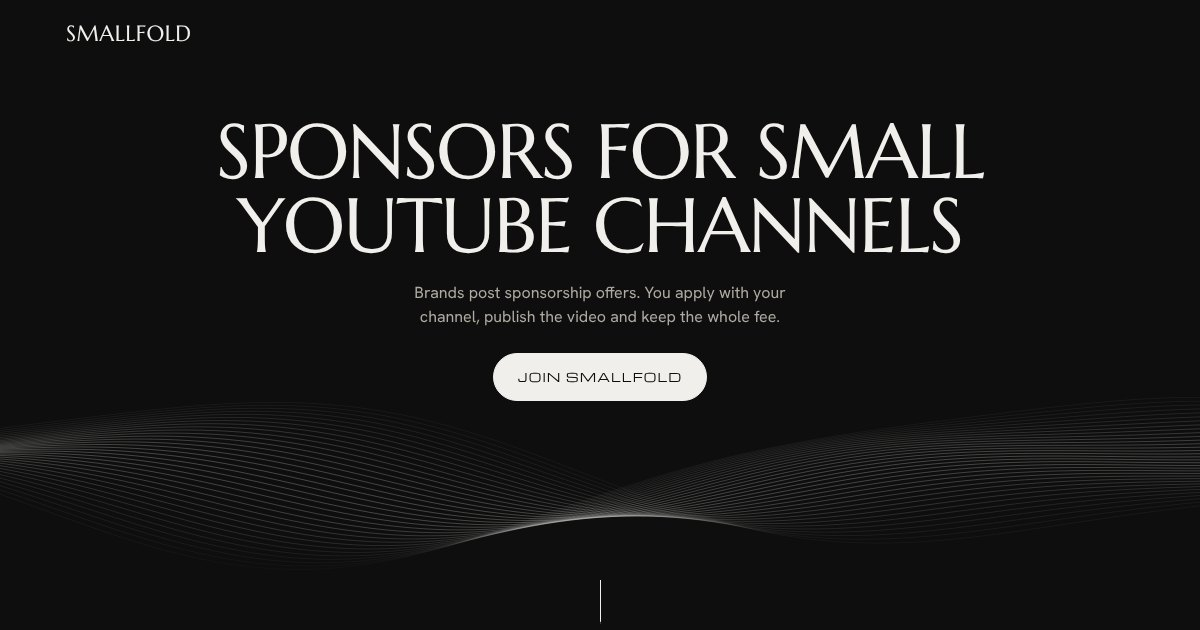
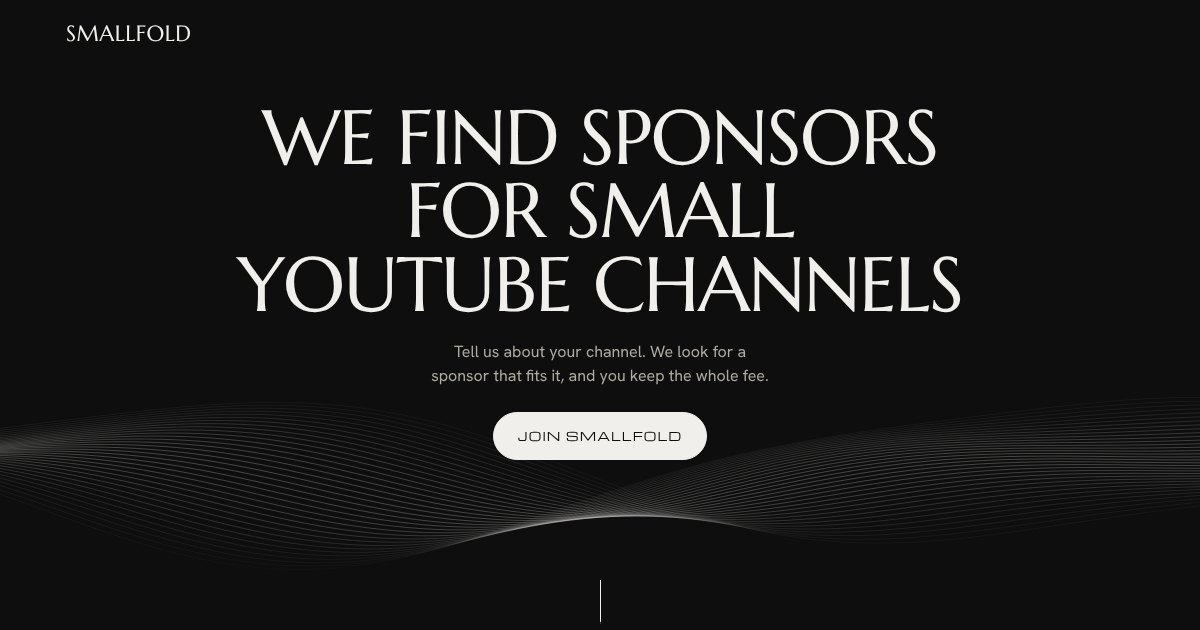
Describe Smallfold as a curated service that finds the sponsor
Smallfold looks for a sponsor for each creator; creators no longer apply
to a board of offers. The headline, steps, questions, brand section and
examples follow that model, and the list of open sponsorships is gone.

Claude-Session: https://claude.ai/code/session_01C9y4eMVXke5ZdWtuD7G568

Changed region(s): [[0.185, 0.1508, 0.8325, 0.5127], [0.37, 0.5429, 0.6475, 0.754]]

diff --git a/index.html b/index.html
@@ -3,11 +3,11 @@
 <head>
 <meta charset="utf-8">
 <meta name="viewport" content="width=device-width, initial-scale=1, viewport-fit=cover">
-<title>Smallfold: sponsors for small YouTube channels</title>
-<meta name="description" content="Smallfold is a sponsorship marketplace for YouTube channels with 1,000 to 50,000 subscribers. Brands post what they want to sponsor, creators apply and get paid.">
+<title>Smallfold: we find sponsors for small YouTube channels</title>
+<meta name="description" content="Smallfold finds sponsors for YouTube channels with 1,000 to 50,000 subscribers. Tell us about your channel, we look for a sponsor that fits it, and you keep the whole fee.">
 <meta property="og:type" content="website">
-<meta property="og:title" content="Smallfold: sponsors for small YouTube channels">
-<meta property="og:description" content="Brands post a sponsorship. Channels with 1,000 to 50,000 subscribers apply, publish the video and get paid.">
+<meta property="og:title" content="Smallfold: we find sponsors for small YouTube channels">
+<meta property="og:description" content="Tell us about your channel. We look for a sponsor that fits it, and you keep the whole fee.">
 <meta property="og:image" content="share.jpg">
 <meta name="twitter:card" content="summary_large_image">
 <link rel="icon" href="favicon.svg" type="image/svg+xml">
@@ -118,12 +118,11 @@ a:hover > .arrow, button:hover > .arrow { transform: translateX(3px); }
 .scroll i { position: relative; width: 1px; height: 44px; background: var(--line); overflow: hidden; }
 .scroll i::after { content: ""; position: absolute; inset: 0; background: var(--fg); transform: translateY(-101%); animation: drip 2.6s var(--ease) infinite; }
 @keyframes drip { 0% { transform: translateY(-101%); } 55% { transform: translateY(0); } 100% { transform: translateY(101%); } }
-.hero__facts { display: flex; flex-wrap: wrap; justify-content: space-between; gap: 6px 32px; margin-bottom: 18px; color: var(--muted); }
-.hero__stage { position: relative; padding-top: clamp(48px, 7vw, 104px); scroll-margin-top: var(--nav); }
 @media (max-width: 700px) {
   .hero__center { padding-bottom: clamp(110px, 21vh, 190px); }
   .d-hero { font-size: clamp(36px, 11.3vw, 64px); }
 }
+@media (max-height: 780px) and (min-width: 701px) { .hero__center { padding-bottom: clamp(96px, 16vh, 124px); } }
 @media (max-height: 620px) { .hero__center { padding-bottom: 96px; gap: 16px; } }
 .window { border: 1px solid var(--line-on-cream); border-bottom: 0; border-radius: 14px 14px 0 0; background: var(--cream); color: var(--ink); overflow: hidden; }
 .window__bar { display: flex; align-items: center; gap: 14px; padding: 14px 20px; border-bottom: 1px solid var(--line-on-cream); }
@@ -275,33 +274,16 @@ fieldset.field { border: 0; margin: 0; padding: 0; min-width: 0; }
     <div class="hero__screen">
       <canvas class="hero__flow" aria-hidden="true"></canvas>
       <div class="wrap hero__center">
-        <h1 class="display d-hero" id="hero-h">Sponsors for small YouTube channels</h1>
+        <h1 class="display d-hero" id="hero-h">We find sponsors for small YouTube channels</h1>
         <script>(function(){var h=document.getElementById('hero-h'),t=h.textContent.trim();h.setAttribute('aria-label',t);h.innerHTML=t.split(/\s+/).map(function(w,i){return '<span class="w" aria-hidden="true"><span style="--i:'+i+'">'+w+'</span></span>'}).join(' ')})()</script>
-        <p class="hero__lead muted" data-in style="--i:7">Brands post sponsorship offers. You apply with your channel, publish the video and keep the whole fee.</p>
-        <div class="hero__actions" data-in style="--i:9">
+        <p class="hero__lead muted" data-in style="--i:9">Tell us about your channel. We look for a sponsor that fits it, and you keep the whole fee.</p>
+        <div class="hero__actions" data-in style="--i:11">
           <a class="btn" href="#join">Join Smallfold</a>
         </div>
       </div>
-      <div class="hero__foot" data-in style="--i:12">
-        <a class="scroll" href="#offers" aria-label="Scroll to the example sponsorships"><i aria-hidden="true"></i></a>
+      <div class="hero__foot" data-in style="--i:14">
+        <a class="scroll" href="#creators" aria-label="Scroll to the next section"><i aria-hidden="true"></i></a>
       </div>
-    </div>
-    <div class="wrap hero__stage" id="offers">
-        <p class="hero__facts label"><span>For channels with 1,000 to 50,000 subscribers</span><span>10% per deal, paid by the brand</span></p>
-        <div class="window" role="img" aria-label="An example of the list a creator sees in Smallfold: four open sponsorships, each with what the brand wants in the video, the publish-by date and the fee">
-          <div class="window__bar" aria-hidden="true"><span class="window__dots"><i></i><i></i><i></i></span><span class="label">Example sponsorships</span></div>
-          <div class="table-scroll" aria-hidden="true">
-            <table class="rows">
-              <thead><tr><th>Sponsorship</th><th class="hide-s">In the video</th><th class="hide-s">Publish by</th><th class="num">Fee</th><th>Status</th></tr></thead>
-              <tbody>
-                <tr><td>Oat drink launch<span class="sub">60-second mention</span></td><td class="hide-s">60-second mention, link in the description</td><td class="hide-s">14 March</td><td class="num">$180</td><td><span class="chip">Open</span></td></tr>
-                <tr><td>Gaming headset<span class="sub">One review video</span></td><td class="hide-s">One video that reviews the headset</td><td class="hide-s">21 March</td><td class="num">$320</td><td><span class="chip">Open</span></td></tr>
-                <tr><td>Study planner app<span class="sub">60-second mention</span></td><td class="hide-s">60-second mention, link in the description</td><td class="hide-s">28 March</td><td class="num">$240</td><td><span class="chip">Open</span></td></tr>
-                <tr><td>Travel backpack<span class="sub">Shown in one video</span></td><td class="hide-s">Shown and named in one travel video</td><td class="hide-s">2 April</td><td class="num">$150</td><td><span class="chip">Open</span></td></tr>
-              </tbody>
-            </table>
-          </div>
-        </div>
     </div>
   </section>
 
@@ -311,28 +293,28 @@ fieldset.field { border: 0; margin: 0; padding: 0; min-width: 0; }
       <div class="chapter">
         <p class="label label--muted">For creators</p>
         <div class="chapter__body">
-          <h2 class="display d-lg" id="creators-h">A sponsor for your next video</h2>
-          <p class="lead">You do not need a manager or an agency. Every sponsorship on Smallfold is an offer from a brand. It says what the brand wants in your video and what it pays.</p>
+          <h2 class="display d-lg" id="creators-h">A sponsor chosen for your channel</h2>
+          <p class="lead">You do not need a manager or an agency, and you do not search through a list. You tell us about your channel, and we look for a sponsor that suits your videos and the people who watch them.</p>
         </div>
       </div>
       <div class="split">
         <ul class="points">
-          <li><h3>You read the whole offer first</h3><p class="muted">What the brand wants in the video, the fee and the date are in the offer before you apply.</p></li>
-          <li><h3>You keep the whole fee</h3><p class="muted">The brand pays Smallfold's 10% commission on top. Nothing is taken from your fee.</p></li>
-          <li><h3>You choose what you promote</h3><p class="muted">You pick the offers you apply to. No offer is assigned to you.</p></li>
+          <li><h3>We start with your channel</h3><p class="muted">We look at what you make and who watches it before we suggest a sponsor.</p></li>
+          <li><h3>You keep the whole fee</h3><p class="muted">The sponsor pays Smallfold's 10% commission on top. Nothing is taken from your fee.</p></li>
+          <li><h3>You decide</h3><p class="muted">You can say no to any sponsor we suggest. Nothing is agreed without you.</p></li>
         </ul>
-        <div class="window window--full offer" role="img" aria-label="An example offer: a study planner app wants a 60-second mention in one video and a link in the description, published by 28 March. The fee is 240 dollars. The creator receives the full 240 dollars and the brand pays 264 dollars, the fee plus 10 percent.">
-          <div class="window__bar" aria-hidden="true"><span class="window__dots"><i></i><i></i><i></i></span><span class="label">Example offer</span></div>
+        <div class="window window--full offer" role="img" aria-label="An example match: for a study skills channel with 9,000 subscribers, Smallfold suggests a study planner app as the sponsor, because the viewers are students who plan their revision. The sponsor wants a 60-second mention in one video and a link in the description. The fee is 240 dollars. The creator receives the full 240 dollars and the sponsor pays 264 dollars, the fee plus 10 percent.">
+          <div class="window__bar" aria-hidden="true"><span class="window__dots"><i></i><i></i><i></i></span><span class="label">Example match</span></div>
           <div class="offer__body" aria-hidden="true">
             <p class="offer__title">Study planner app</p>
             <dl class="offer__rows">
+              <div><dt>Your channel</dt><dd>Study skills, 9,000 subscribers</dd></div>
+              <div><dt>Why it fits</dt><dd>Your viewers are students who plan their revision</dd></div>
               <div><dt>In the video</dt><dd>A 60-second mention in one video, and a link in the description</dd></div>
-              <div><dt>Publish by</dt><dd>28 March</dd></div>
               <div><dt>Fee</dt><dd>$240</dd></div>
               <div class="is-strong"><dt>You receive</dt><dd>$240, the full fee</dd></div>
-              <div><dt>The brand pays</dt><dd>$264, the fee plus 10%</dd></div>
+              <div><dt>The sponsor pays</dt><dd>$264, the fee plus 10%</dd></div>
             </dl>
-            <span class="chip chip--on">Apply</span>
           </div>
         </div>
       </div>
@@ -345,14 +327,14 @@ fieldset.field { border: 0; margin: 0; padding: 0; min-width: 0; }
       <div class="chapter">
         <p class="label label--muted">How it works</p>
         <div class="chapter__body">
-          <h2 class="display d-lg" id="steps-h">A sponsorship in four steps</h2>
+          <h2 class="display d-lg" id="steps-h">How we find your sponsor</h2>
         </div>
       </div>
       <ol class="steps">
-        <li><h3>Join with your channel</h3><p class="muted">Sign up as a creator and add your YouTube channel.</p></li>
-        <li><h3>Apply to a sponsorship</h3><p class="muted">Read the offers from brands and apply to the ones that suit what you make.</p></li>
-        <li><h3>Confirm and publish</h3><p class="muted">When the brand approves you, confirm the fee and the date, then publish the video.</p></li>
-        <li><h3>Get paid</h3><p class="muted">The brand pays your fee through Smallfold once the video is published.</p></li>
+        <li><h3>Tell us about your channel</h3><p class="muted">Join as a creator and send us the link to your YouTube channel.</p></li>
+        <li><h3>We look for a sponsor</h3><p class="muted">We look at your videos and your audience, and find a sponsor that suits them.</p></li>
+        <li><h3>You say yes or no</h3><p class="muted">We tell you who the sponsor is, what they want in the video and what they pay. You decide.</p></li>
+        <li><h3>Publish and get paid</h3><p class="muted">You publish the video, and the sponsor pays your fee through Smallfold.</p></li>
       </ol>
     </div>
   </section>
@@ -367,10 +349,11 @@ fieldset.field { border: 0; margin: 0; padding: 0; min-width: 0; }
         </div>
       </div>
       <div class="faq" style="margin-top: clamp(40px, 5vw, 72px)">
-        <div class="faq__item"><h3>What does Smallfold cost?</h3><p>Smallfold takes a 10% commission on each deal, and the brand pays it. As a creator you keep the whole fee in the offer. No deal, no commission.</p></div>
+        <div class="faq__item"><h3>Do I look for the sponsor myself?</h3><p>No. You tell us about your channel and we look for a sponsor that suits it. You do not apply to a list of offers.</p></div>
+        <div class="faq__item"><h3>What does Smallfold cost?</h3><p>Nothing for creators. Smallfold takes a 10% commission on each deal, and the sponsor pays it. You keep the whole fee. No deal, no commission.</p></div>
         <div class="faq__item"><h3>Is my channel big enough?</h3><p>Yes, if it has between 1,000 and 50,000 subscribers. A channel with fewer than 1,000 cannot join yet: come back when you reach 1,000.</p></div>
-        <div class="faq__item"><h3>How do I get paid?</h3><p>Through Smallfold. The brand pays your fee there once your video is published.</p></div>
-        <div class="faq__item"><h3>Can I say no to a sponsorship?</h3><p>Yes. You choose which offers to apply to, and you can read each one in full first. Nothing is assigned to you.</p></div>
+        <div class="faq__item"><h3>Can I say no to a sponsor?</h3><p>Yes. We suggest a sponsor and you decide. Nothing is agreed without you.</p></div>
+        <div class="faq__item"><h3>How do I get paid?</h3><p>Through Smallfold. The sponsor pays your fee there once your video is published.</p></div>
       </div>
     </div>
   </section>
@@ -381,7 +364,7 @@ fieldset.field { border: 0; margin: 0; padding: 0; min-width: 0; }
       <div class="chapter__body">
         <p class="label label--muted">Join</p>
         <h2 class="display d-lg" id="join-h">Join as a creator or a brand</h2>
-        <p class="lead muted">Tell us which side you are on and where to reach you. We reply by email.</p>
+        <p class="lead muted">Tell us whether you are a creator or a brand, and where to reach you. We reply by email.</p>
       </div>
       <form class="form" id="join-form" novalidate>
         <fieldset class="field field--full">
@@ -415,27 +398,27 @@ fieldset.field { border: 0; margin: 0; padding: 0; min-width: 0; }
       <div class="chapter">
         <p class="label label--muted">For brands</p>
         <div class="chapter__body">
-          <h2 class="display d-lg" id="brands-h">Sponsor many small channels with one brief</h2>
+          <h2 class="display d-lg" id="brands-h">Small channels chosen for your brand</h2>
           <p><a class="link" href="#join">Join as a brand <svg class="arrow" viewBox="0 0 12 12" aria-hidden="true"><path d="M1 6h9M6.5 2.5 10 6l-3.5 3.5" fill="none" stroke="currentColor" stroke-width="1.3"/></svg></a></p>
         </div>
       </div>
       <div class="split">
         <ul class="points">
-          <li><h3>Post a sponsorship brief</h3><p class="muted">Say what you sell, what you want in the video and what you pay.</p></li>
-          <li><h3>Compare the channels that apply</h3><p class="muted">Each application shows the channel's topic and subscriber count.</p></li>
+          <li><h3>Tell us what you want to promote</h3><p class="muted">Say what you sell, who should see it and what you pay.</p></li>
+          <li><h3>We suggest channels that fit</h3><p class="muted">We choose small YouTube channels whose viewers suit your product. You approve each one.</p></li>
           <li><h3>Pay per finished deal</h3><p class="muted">You pay each creator's fee through Smallfold, plus a 10% commission on each deal.</p></li>
         </ul>
-        <div class="window window--full" role="img" aria-label="The Smallfold app showing a brand's list of channels that applied to its sponsorship, with each channel's topic, subscriber count and status">
-          <div class="window__bar" aria-hidden="true"><span class="window__dots"><i></i><i></i><i></i></span><span class="label">Oat drink launch · applications</span></div>
+        <div class="window window--full" role="img" aria-label="An example of the channels Smallfold suggests to a brand for an oat drink launch: five small channels, each with its topic, its subscriber count and whether the brand has approved it">
+          <div class="window__bar" aria-hidden="true"><span class="window__dots"><i></i><i></i><i></i></span><span class="label">Example · channels suggested for an oat drink</span></div>
           <div class="table-scroll" aria-hidden="true">
             <table class="rows">
               <thead><tr><th>Channel</th><th class="num"><span class="hide-s">Subscribers</span><span class="show-s">Subs</span></th><th>Status</th></tr></thead>
               <tbody>
                 <tr><td>Home baking channel</td><td class="num">12,400</td><td><span class="chip chip--on">Approved</span></td></tr>
-                <tr><td>Trail running channel</td><td class="num">8,900</td><td><span class="chip">In review</span></td></tr>
-                <tr><td>Indie games channel</td><td class="num">31,200</td><td><span class="chip">Applied</span></td></tr>
-                <tr><td>Budget cooking channel</td><td class="num">4,700</td><td><span class="chip">Applied</span></td></tr>
-                <tr><td>Study skills channel</td><td class="num">1,900</td><td><span class="chip">Applied</span></td></tr>
+                <tr><td>Trail running channel</td><td class="num">8,900</td><td><span class="chip">Suggested</span></td></tr>
+                <tr><td>Indie games channel</td><td class="num">31,200</td><td><span class="chip">Suggested</span></td></tr>
+                <tr><td>Budget cooking channel</td><td class="num">4,700</td><td><span class="chip">Suggested</span></td></tr>
+                <tr><td>Study skills channel</td><td class="num">1,900</td><td><span class="chip">Suggested</span></td></tr>
               </tbody>
             </table>
           </div>
@@ -448,7 +431,7 @@ fieldset.field { border: 0; margin: 0; padding: 0; min-width: 0; }
 <footer class="footer on-ink">
   <div class="wrap">
     <div class="footer__row">
-      <p class="lead" style="max-width: 22em">A sponsorship marketplace for YouTube channels with 1,000 to 50,000 subscribers.</p>
+      <p class="lead" style="max-width: 22em">We find sponsors for YouTube channels with 1,000 to 50,000 subscribers.</p>
       <nav class="footer__links" aria-label="Footer">
         <a href="#creators">Creators</a><a href="#steps">How it works</a><a href="#questions">Questions</a><a href="#join">Join Smallfold</a><a href="#brands">For brands</a>
       </nav>
@@ -521,7 +504,7 @@ fieldset.field { border: 0; margin: 0; padding: 0; min-width: 0; }
     var seenIO = new IntersectionObserver(function (entries) {
       entries.forEach(function (en) { if (en.isIntersecting) { en.target.classList.add('is-seen'); seenIO.unobserve(en.target); } });
     }, { rootMargin: '0px 0px -7% 0px', threshold: .08 });
-    [].forEach.call(document.querySelectorAll('.hero__stage, .chapter, .split > *, .steps > li, .faq__item, .join > *, .footer__row, .footer__word'), function (el) {
+    [].forEach.call(document.querySelectorAll('.chapter, .split > *, .steps > li, .faq__item, .join > *, .footer__row, .footer__word'), function (el) {
       var i = [].indexOf.call(el.parentNode.children, el);
       el.style.setProperty('--d', el.matches('.steps > li, .split > *, .join > *') ? Math.min(i, 3) : 0);
       el.classList.add('rv'); seenIO.observe(el);
